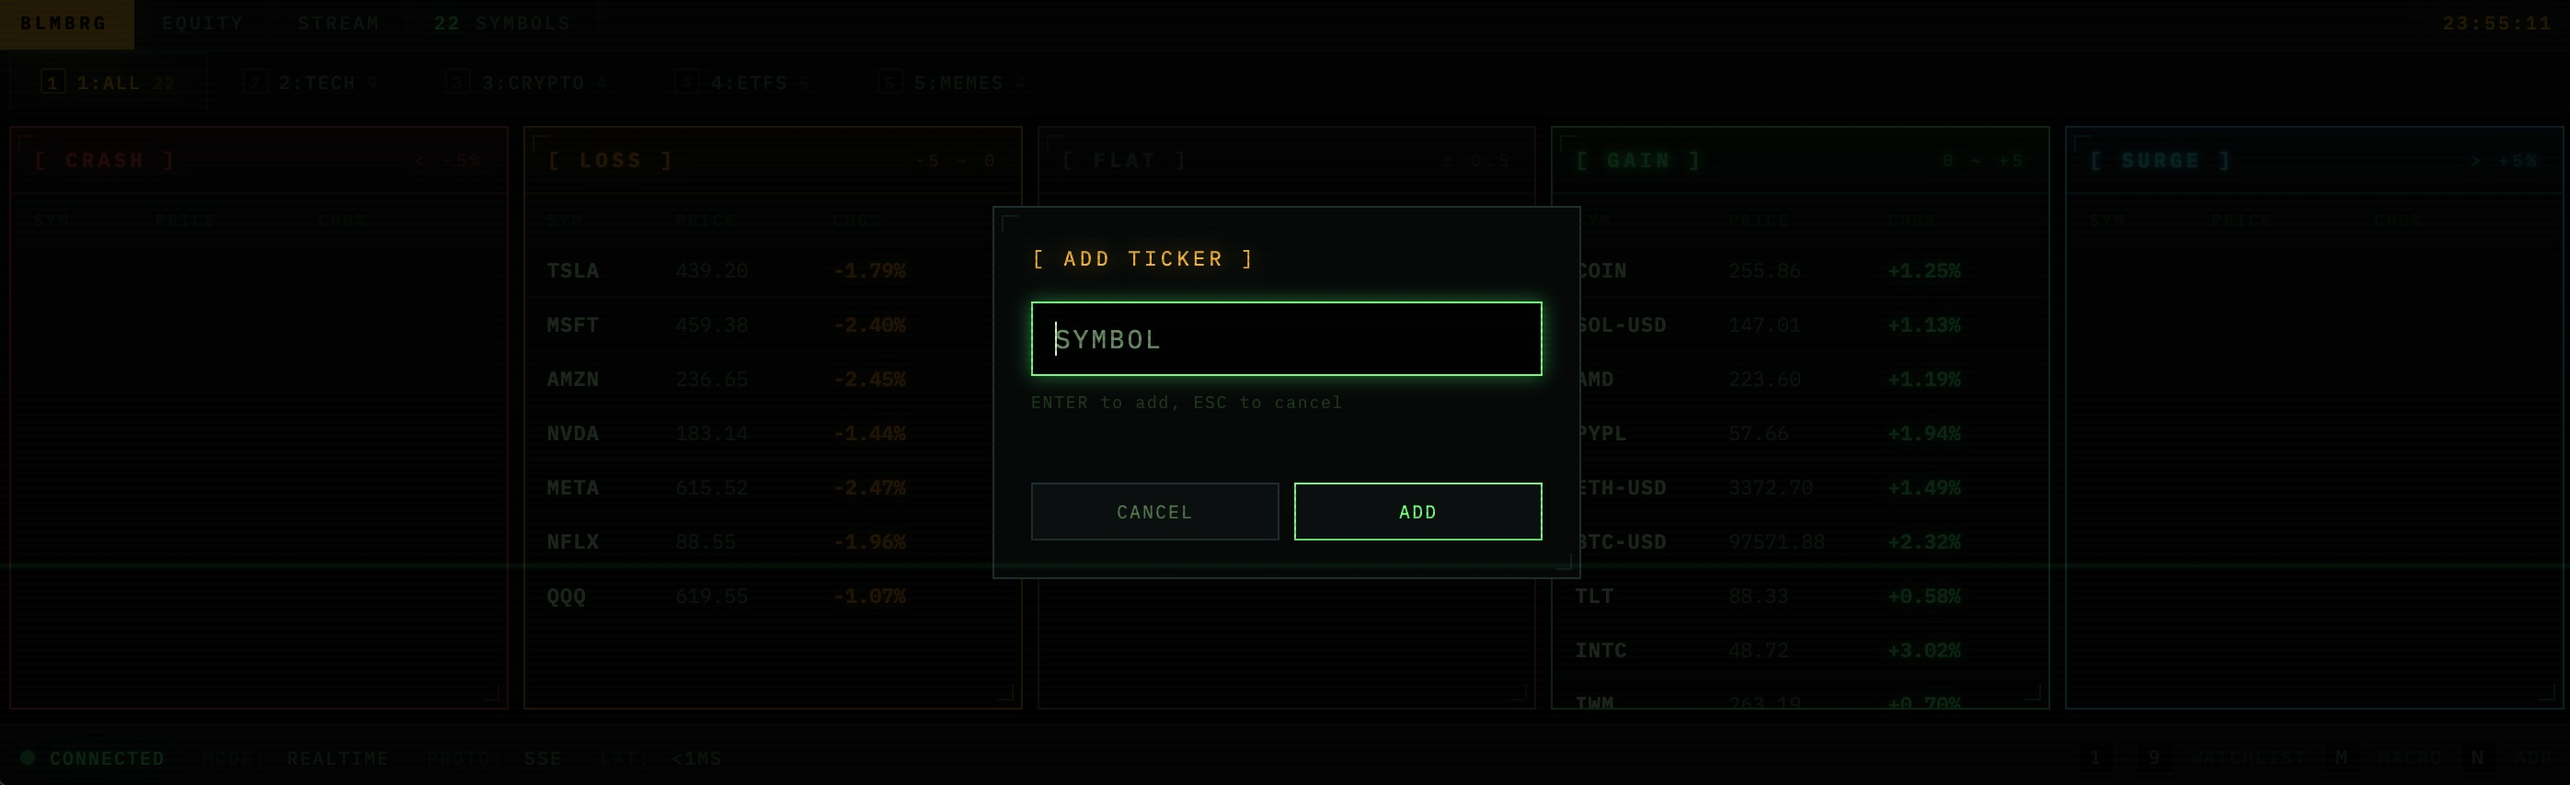
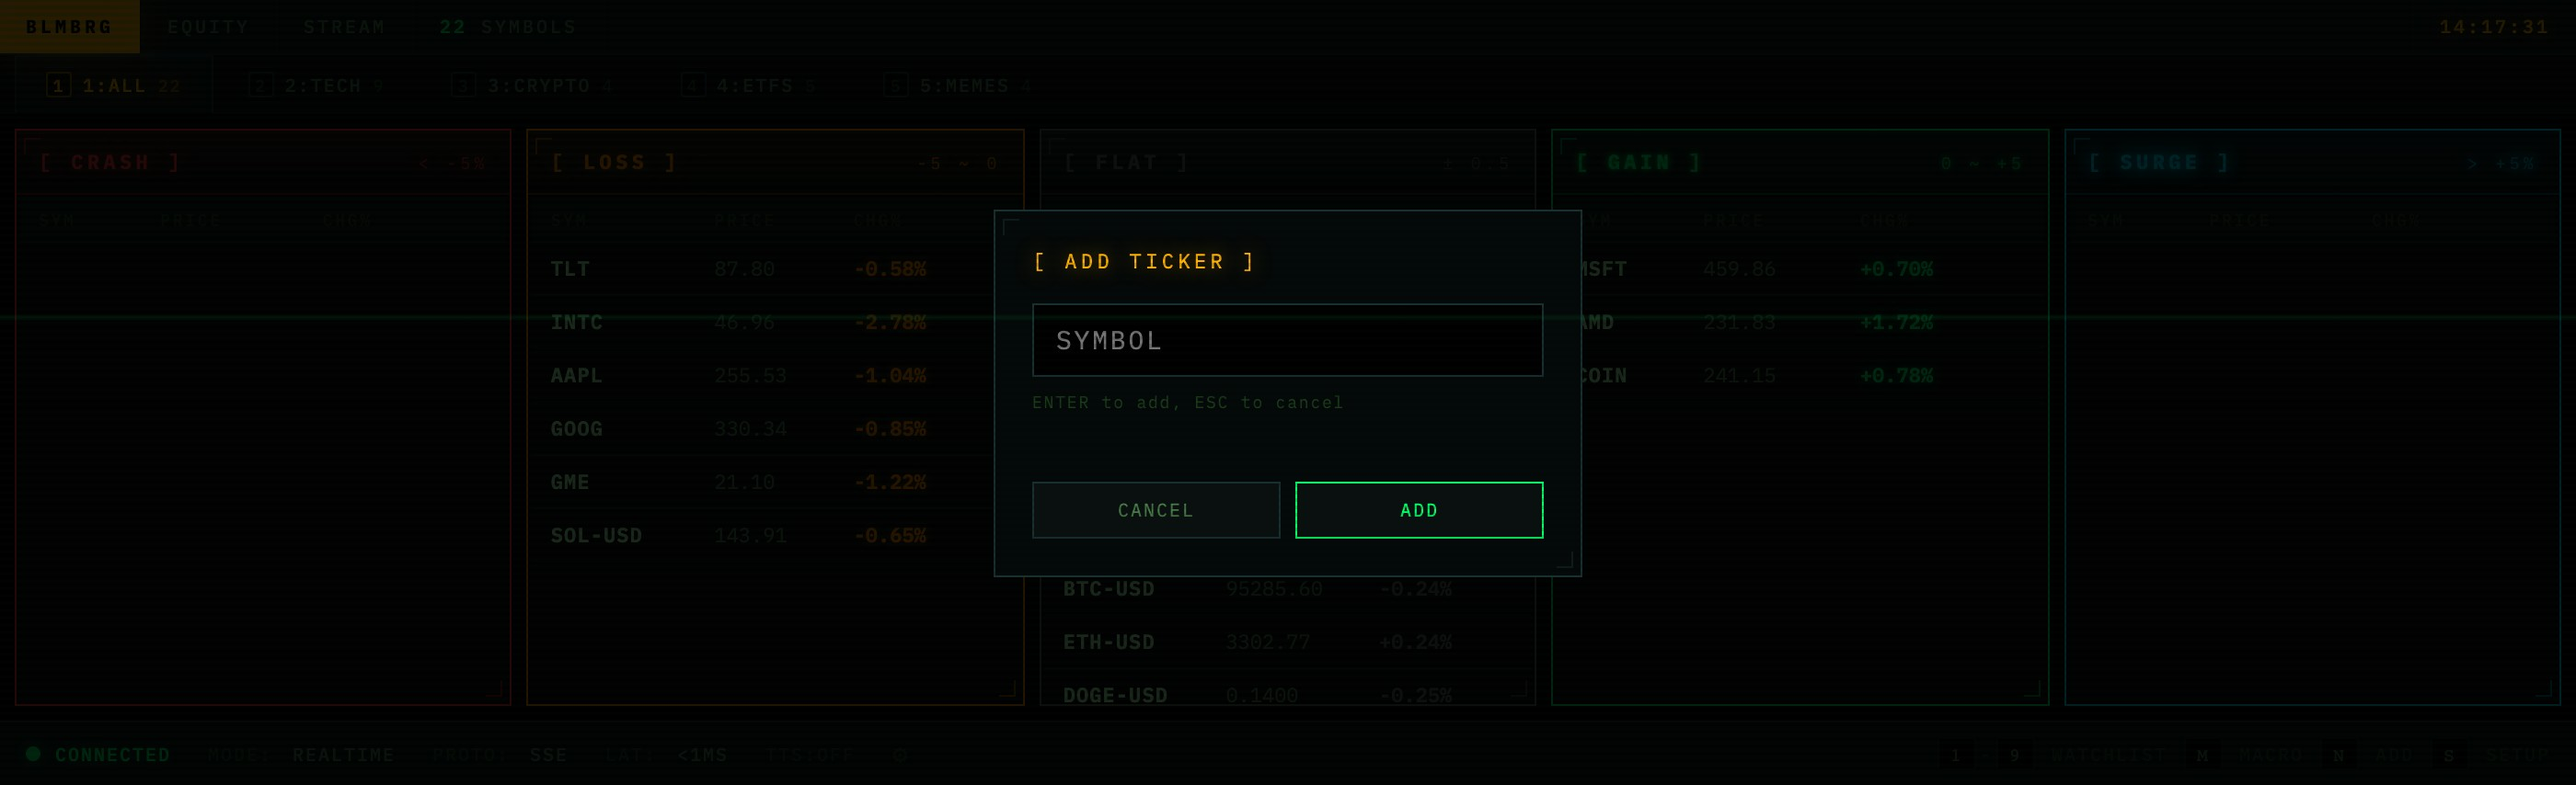
Update screenshots and docs for multi-dashboard feature

diff --git a/index.html b/index.html
@@ -94,7 +94,7 @@
                 <div class="feature-card macro">
                     <div class="feature-icon">[ M ]</div>
                     <h3>MACRO VIEW</h3>
-                    <p>Net Liquidity, Buffett Indicator, Credit Spreads, Yield Curve, VIX, S&P vs 200-MA. All in one view.</p>
+                    <p>Net Liquidity, Buffett Indicator, Credit Spreads, Yield Curve, VIX, S&P vs 200-MA. Multiple customizable dashboards.</p>
                 </div>
             </div>
         </section>
@@ -112,7 +112,7 @@
                 </figure>
                 <figure class="screenshot">
                     <img src="screenshots/wllbrg-macro.jpg" alt="WLLBRG macro indicators view">
-                    <figcaption>Macro indicators dashboard</figcaption>
+                    <figcaption>Macro indicators with multiple dashboards</figcaption>
                 </figure>
             </div>
         </section>
@@ -139,6 +139,10 @@
                 <div class="key-combo">
                     <kbd>T</kbd>
                     <span>Voice alerts (browser TTS)</span>
+                </div>
+                <div class="key-combo">
+                    <kbd>S</kbd>
+                    <span>Setup / Settings</span>
                 </div>
                 <div class="key-combo">
                     <kbd>ESC</kbd>
